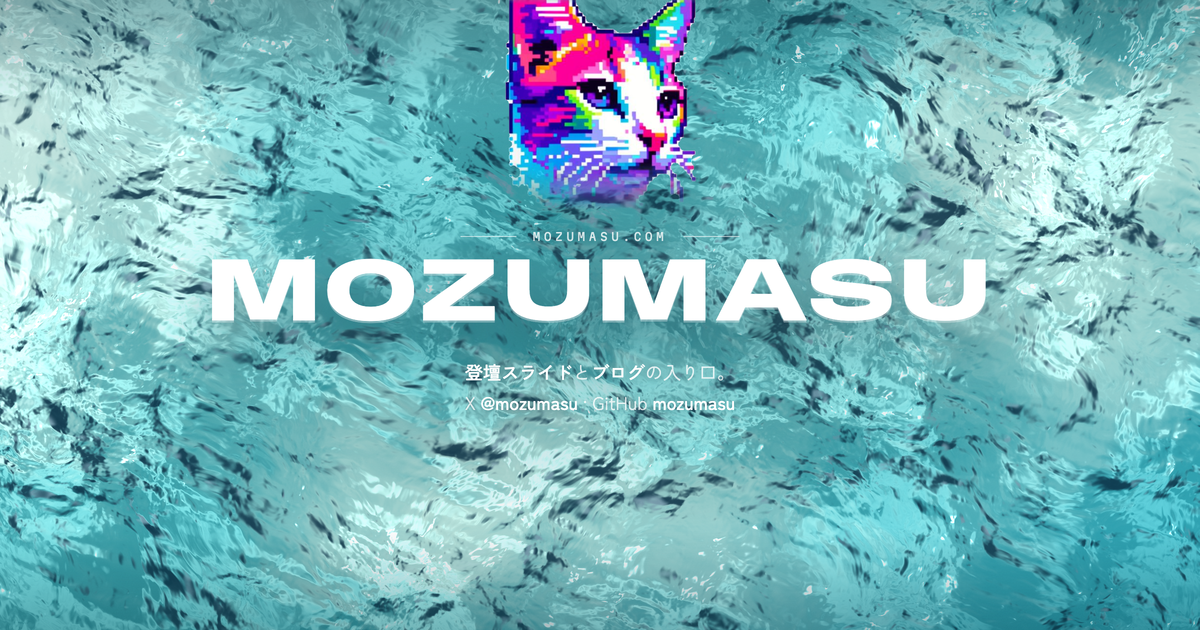
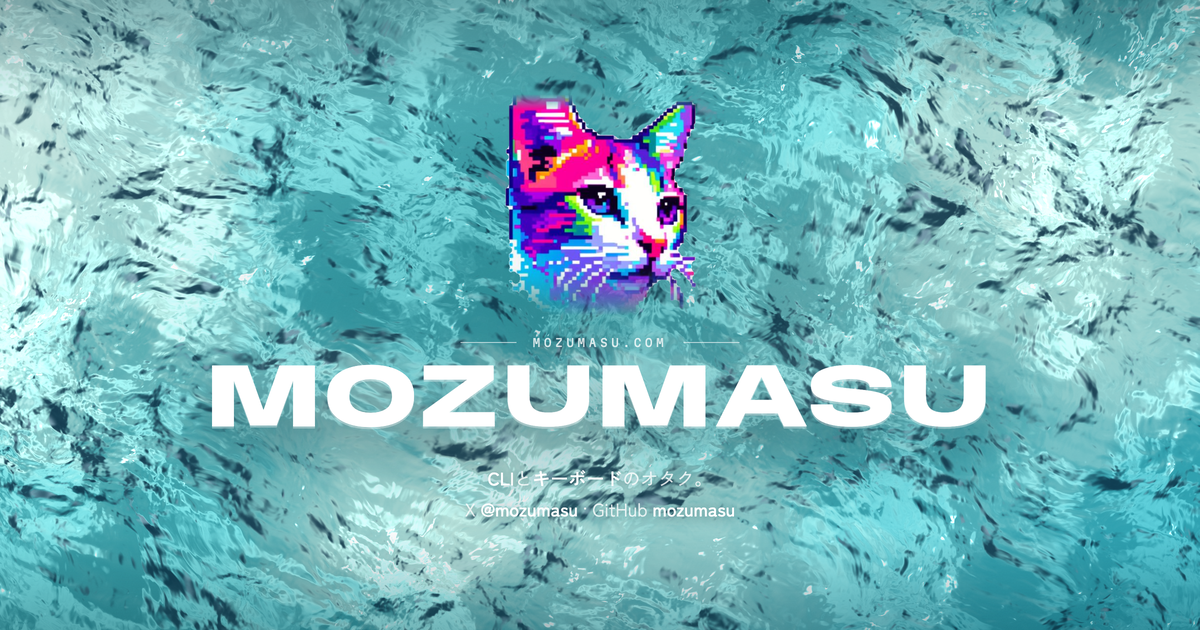
fix: 🐛 OGP 画像でアイコンが上に切れるのを直す
ページ全体を grid の auto / 1fr / auto で組んでいたが、1fr 行が
min-height に対して伸びず、ヘッダーとフッターの auto 行が余白を
吸って偶然中央に見えていただけだった。OGP 用にヘッダーとフッターを
消すとヒーローが 1 行目に繰り上がり、上に寄って切れていた。
flex column + flex: 1 にして、ヒーローが残り高さを取る形にする。

Claude-Session: https://claude.ai/code/session_01KqBJPWuJ3vRtWxZDbBGJKB

Changed region(s): [[0.1542, 0.0, 0.8325, 0.7238], [0.4008, 0.754, 0.6167, 0.8444]]

diff --git a/public/index.html b/public/index.html
@@ -48,9 +48,8 @@
   .grain svg { width: 100%; height: 100%; }
 
   /* ---- page ---- */
-  /* minmax(0, 1fr): a grid track defaults to min-content, which would let the one-word h1 widen the whole page */
-  .page { position: relative; z-index: 1; min-height: 100dvh; display: grid; grid-template-rows: auto 1fr auto; grid-template-columns: minmax(0, 1fr); }
-  header, footer { display: flex; justify-content: space-between; align-items: center; gap: 16px; padding: 36px 52px;
+  .page { position: relative; z-index: 1; min-height: 100dvh; display: flex; flex-direction: column; }
+  header, footer { flex: none; display: flex; justify-content: space-between; align-items: center; gap: 16px; padding: 36px 52px;
     font-size: 11px; letter-spacing: 0.2em; text-transform: uppercase; text-shadow: 0 1px 3px rgba(4,50,60,0.7), 0 2px 16px var(--shadow); }
   footer { padding-top: 24px; }
   .brand { display: flex; gap: 10px; align-items: center; font-weight: 500; }
@@ -58,7 +57,7 @@
   nav.top { display: flex; gap: 0.6em; }
   nav.top a:hover, footer a:hover { text-decoration: underline; text-underline-offset: 4px; }
 
-  .hero { display: flex; flex-direction: column; align-items: center; justify-content: center; text-align: center; padding: 24px 20px 40px; }
+  .hero { flex: 1; min-width: 0; display: flex; flex-direction: column; align-items: center; justify-content: center; text-align: center; padding: 24px 20px 40px; }
   .avatar { width: 200px; height: 200px; }
   /* keep this a bare <img>: a CSS filter or mask here leaves a faint box on GPU compositing.
      top/bottom fades are baked into the PNG alpha instead */
